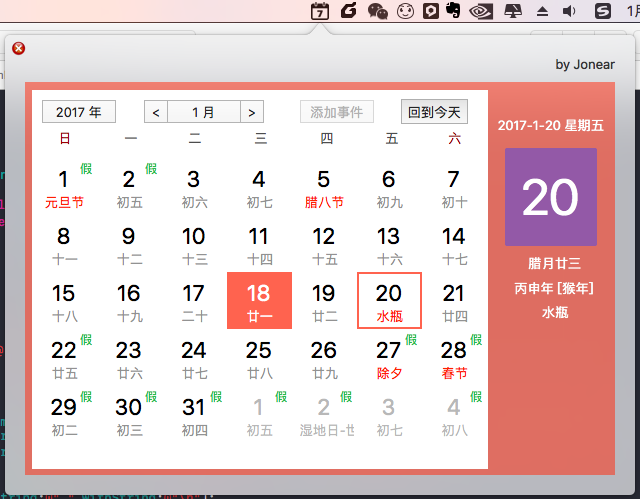
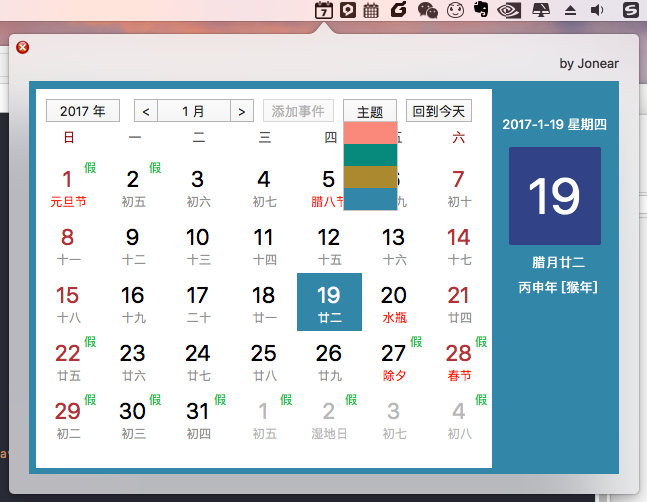
主题保存

diff --git a/JNLunarCalendar/JNThemeManager.m b/JNLunarCalendar/JNThemeManager.m
@@ -16,6 +16,8 @@ alpha:alphaValue]
 
 #define NSColorFromRGB(rgbValue)              NSColorFromRGBA(rgbValue, 1.0)
 
+#define UserSaveThemeIndexKey @"UserSaveThemeIndexKey"
+
 @implementation JNThemeManager
 
 + (instancetype)sharedManager {
@@ -31,26 +33,33 @@ alpha:alphaValue]
 {
     self = [super init];
     if (self) {
-        [self updateTheme:JNThemeType_Normal];
+        NSNumber *theme = [[NSUserDefaults standardUserDefaults] objectForKey:UserSaveThemeIndexKey];
+        [self updateTheme:[theme intValue]];
     }
     return self;
 }
 
 - (NSArray<NSColor*>*)getAllTheme {
-    return @[NSColorFromRGB(0xfa897a), NSColorFromRGB(0x11897a), NSColorFromRGB(0xaa8923)];
+    return @[NSColorFromRGB(0xfa897a), NSColorFromRGB(0x11897a), NSColorFromRGB(0xaa8923), NSColorFromRGB(0x3588ab)];
 }
 
 - (void)updateTheme:(JNThemeType)type {
-    if (type == JNThemeType_Normal) {
-        _backgroundColor = NSColorFromRGB(0xfa897a);
-        _detailColor = NSColorFromRGB(0x8F53C4);
-    } else if (type == JNThemeType_Green) {
+    if (type == JNThemeType_Green) {
         _backgroundColor = NSColorFromRGB(0x11897a);
-        _detailColor = NSColorFromRGB(0x8F5011);
+        _detailColor = NSColorFromRGB(0x335021);
     } else if (type == JNThemeType_Gray) {
         _backgroundColor = NSColorFromRGB(0xaa8923);
         _detailColor = NSColorFromRGB(0x774411);
+    } else if (type == JNThemeType_Nice) {
+        _backgroundColor = NSColorFromRGB(0x3588ab);
+        _detailColor = NSColorFromRGB(0x324488);
+    } else {
+        _backgroundColor = NSColorFromRGB(0xfa897a);
+        _detailColor = NSColorFromRGB(0x8F53C4);
     }
+    
+    [[NSUserDefaults standardUserDefaults] setObject:@(type) forKey:UserSaveThemeIndexKey];
+    [[NSUserDefaults standardUserDefaults] synchronize];
 }
 
 @end

diff --git a/JNLunarCalendar/JNPopViewController.m b/JNLunarCalendar/JNPopViewController.m
@@ -192,9 +192,11 @@
         [self reloadDateData];
     } else if ([notification object] == self.themeTableView) {
         [self.themeScrollView setHidden:YES];
-        [[JNThemeManager sharedManager] updateTheme:[[notification object] selectedRow]];
-        [self updateTheme];
-        [self.themeTableView deselectAll:nil];
+        if ([[notification object] selectedRow] >= 0) {
+            [[JNThemeManager sharedManager] updateTheme:[[notification object] selectedRow]];
+            [self updateTheme];
+            [self.themeTableView deselectAll:nil];
+        }
     }
 }
 

diff --git a/JNLunarCalendar/JNThemeManager.h b/JNLunarCalendar/JNThemeManager.h
@@ -10,9 +10,10 @@
 #import <Cocoa/Cocoa.h>
 
 typedef NS_ENUM(NSInteger, JNThemeType) {
-    JNThemeType_Normal,
+    JNThemeType_Normal = 0,
     JNThemeType_Green,
     JNThemeType_Gray,
+    JNThemeType_Nice,
 };
 
 @interface JNThemeManager : NSObject
